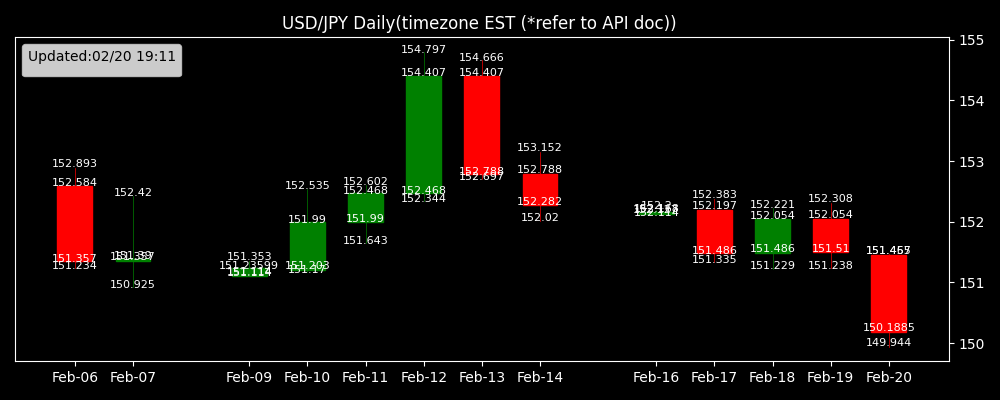
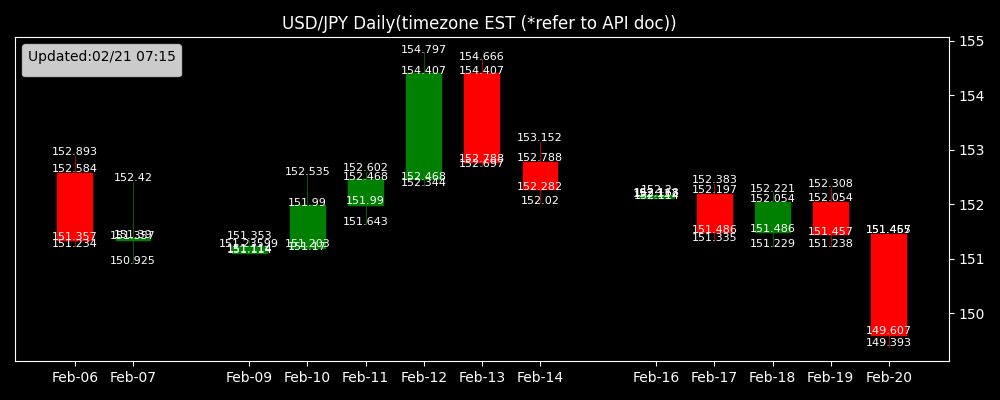
crongenerated

diff --git a/docs/src/dashboard/marketinfo.html b/docs/src/dashboard/marketinfo.html
@@ -14,12 +14,14 @@
     </style>
 </head>
 <body>
-    <h3> 概況 (更新： 02/20 19:11 ) </h3>
-    <p>最近の為替レートデータを分析すると、特定の通貨ペア（例えばドル/円）のボラティリティが高まり、比較的短期間の中で値動きがあることが見受けられる。この状況は、いくつかの要因に起因する可能性がある。まず、市場のボラティリティが2月13日と2月12日にピークを迎え、特に2月13日は取引量が大幅に増加した点が注目される。この期間において、152円台から154円台への急激な上昇が観測された後、再び152円台に戻る動きが確認されている。
+    <h3> 概況 (更新： 02/21 07:15 ) </h3>
+    <p>為替の状況を基に、市場のトレンドを分析すると、2025年2月初旬から中旬にかけて変動が見られます。具体的には、2月12日に高いボラティリティが観察され、152.468から154.407まで急速に値を上昇させましたが、その後の2月13日には152.788まで下落しています。この急上昇の背景には、何らかの経済指標や政策の変化が影響した可能性があります。
 
-2月中旬のこの急激な動きは、世界的な経済指標の発表や主要国の金融政策の変更、あるいは地政学的な緊張に関連するニュースによる不確実性の影響を受ける可能性がある。また、2月16日以降は比較的安定的な取引水準に戻っているが、2月20日には再び150円台への下落が見られ、ボラティリティの持続が示唆されている。
+最近の市場の動向としては、2月20日において149.607までの下落が見られ、151.465の高値をつけた後の急落であることから、短期的な売りが加速したと見られるかもしれません。これは、特定の経済ニュースや政局の不安定による影響を受け、市場の心理が変化した可能性を示唆します。
 
-ニュース情報によれば、最近の為替市場は、特にアメリカのインフレ指標や中央銀行の政策金利に関連する発表に敏感に反応しており、これが短期的な円相場の変動を引き起こしている可能性が指摘されている。今後もこうした経済指標や政策の変更に対する市場の反応が、為替相場の行方に影響を与え続けるかもしれない。市場参加者は、これらのニュースや経済指標に注視し、リスク管理を徹底することが重要となるだろう。</p>
+また、取引量の推移を見ると、2月13日の取引量が943,802と突出して高いことから、この日の動きが大きな市場イベントによるものである可能性も考えられます。以降の取引日には徐々に取引量が減少し、2月20日には中程度のボリュームに落ち着いています。
+
+全体的に、これらの情報を踏まえると、市場が大きな変動の時期にあり、特定の外部要因や心理的要因が為替レートに影響を与えていると考えられそうです。市場参加者は今後も経済指標や国際情勢に注視する必要があるかもしれません。</p>
 
     <p>Text generated from ChatGPT API.</p>
 

diff --git a/docs/src/dashboard/forecast_text.html b/docs/src/dashboard/forecast_text.html
@@ -5,10 +5,12 @@
     
 </head>
 <body>
-    <h3>今日の天気 (02-20 Thu)</h3>
-    <p>この日の天気を簡潔にお伝えします。気温は最低0.8°Cから最高で7.9°Cまで上がります。降雨やシャワーの予測はなく、概ね晴れていますが、午後には一時的に雲が増える可能性があります。
+    <h3>今日の天気 (02-21 Fri)</h3>
+    <p>天気予報：2025年2月21日の東京の天気は一日中晴れです。雨は降らず、安定した晴天が続くでしょう。気温は最低1.0℃から最高7.4℃まで上昇します。
 
-日照時間は約9.8時間（35263.17秒）で、UV指数の最大値は4.85です。このUV指数は中程度のレベルであるため、特に昼間の時間帯には日傘があると安心です。日差しの強い時間帯には、日焼け対策をしっかりと行うことをお勧めします。</p>
-    (更新：02/20 19:11)
+UVインデックスと日照時間について：UVインデックスは最大で4.8で、これは中程度の強さを示しています。日照時間は10時間（36000秒）あるため、長時間屋外で過ごす場合は紫外線対策が必要です。
+
+日傘が必要かどうか：中程度のUVインデックスと長時間の日照がありますので、日傘を持って行くことをおすすめします。特に午後の外出時には、日傘を使って紫外線対策を行ってください。</p>
+    (更新：02/21 07:15)
 
 </html>
